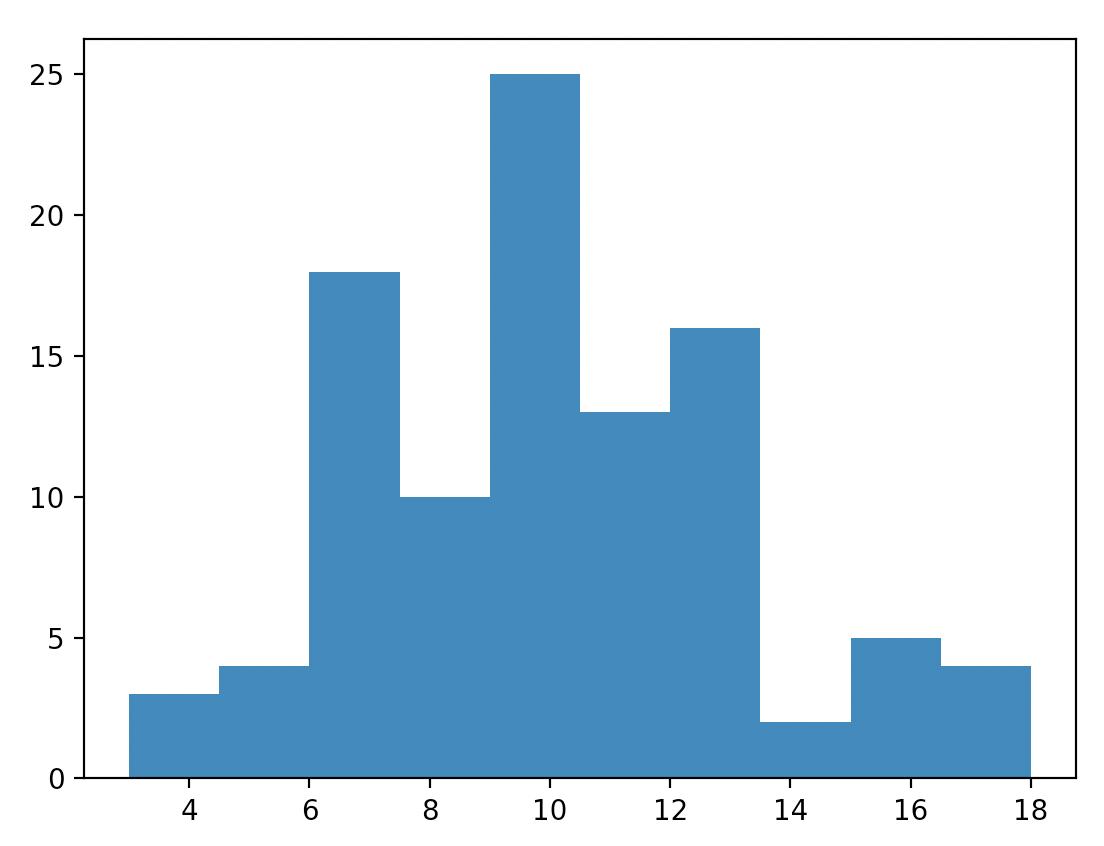
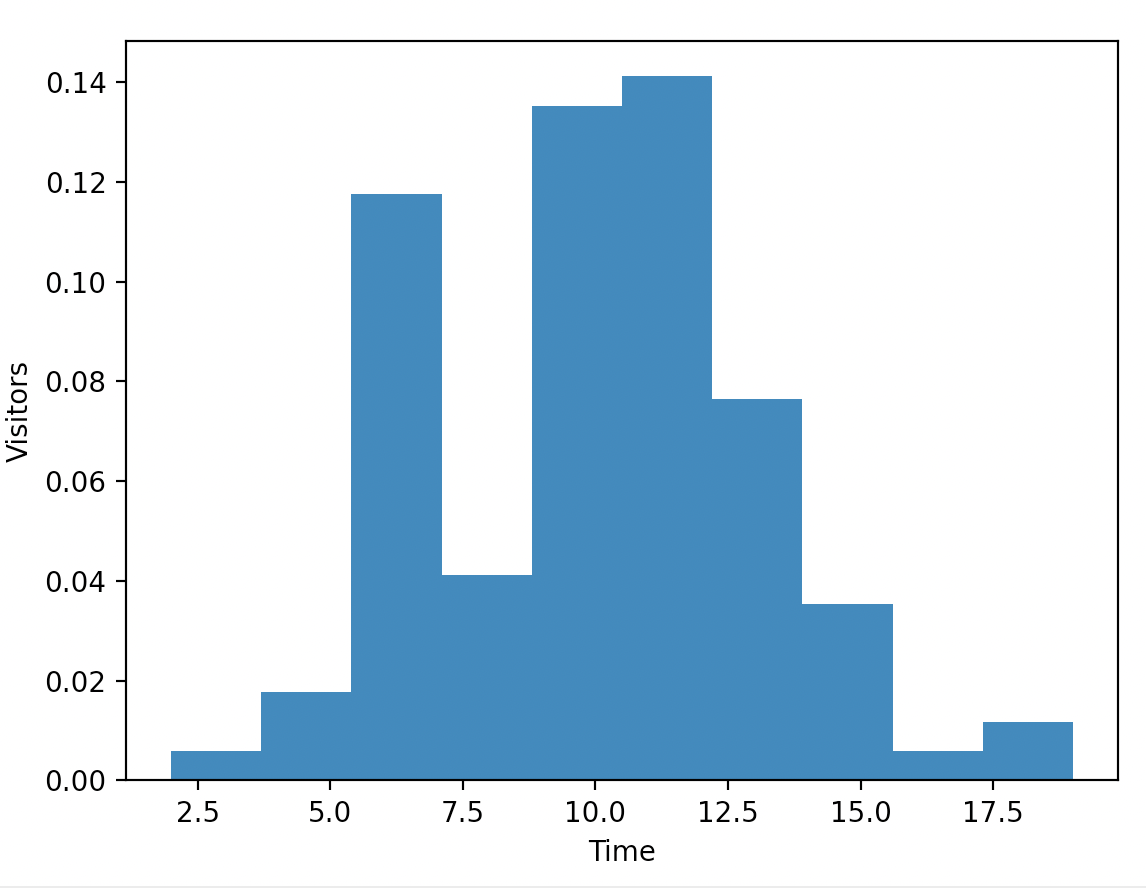
L

diff --git a/CS301_HW2.py b/CS301_HW2.py
@@ -5,7 +5,10 @@ from matplotlib import pyplot as plt
 # poisson distribution data for y-axis
 s = np.random.poisson(lam=10, size=100)
 
-y = plt.hist(s)
+y = plt.hist(s, 10, density=True)
+
+plt.xlabel('Time')
+plt.ylabel('Visitors')
 
 # showing the graph
 plt.show()
@@ -13,21 +16,14 @@ plt.show()
 #2
 def GD(f, start, lr, n_iter=50, tol=1e-05):
     result = start
-      
     for _ in range(n_iter): 
-        # graident is calculated using the np.gradient 
-        # function.
         new_val = -lr * np.gradient(f)
         if np.all(np.abs(new_val) <= tol):
             break
         result += new_val
-          
-    # we return a vector as the gradient can be
-    # multivariable function. if the function has 1
-    # dependent variable then it returns a scalar value.
     return result
 
 mu = np.mean(s)
 var = np.var(s, ddof=1)
 
-GD(s, y, 10.0, 100.0, 0.2, 1)
+GD(s, y, 0.2)
